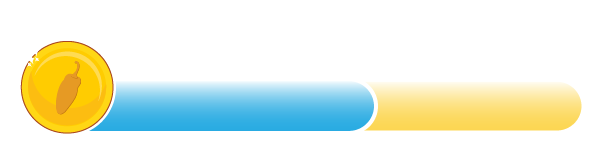
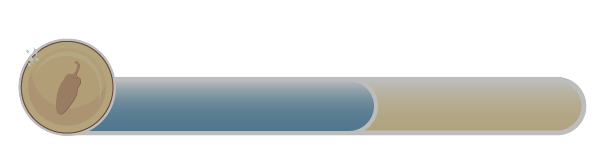
third finish

diff --git a/index.html b/index.html
@@ -27,41 +27,42 @@
 </head>
 
 <body onload="init()">
+	<diy id="rotatePhone">
+		<h3>Please rotate your Phone!</h1>
+	</diy>
 	<h1>Tombstone Tales</h1>
 
 
 	<div class="canvas-container">
+
 		<canvas id="canvas" width="720px" height="480px">
 		</canvas>
-	<div  class="buttonsContainer">
-		<div class="screenButtonsContainer">
-			<button id="view-fullscreen" onclick="fullscreen()"><img id="fullscreenbutton" class="mobileButtonImg"
-				src="img/mobileButtons/fullscreen.png"></button>
-			<button id="mute-fullscreen" onclick="muteAudio()"><img id="muteUnmuteButton" class="mobileButtonImg"
-				src="img/mobileButtons/muteIcon.png"></button>
+		<div class="buttonsContainer">
+			<div class="screenButtonsContainer">
+				<button id="view-fullscreen" onclick="fullscreen()"><img id="fullscreenbutton" class="mobileButtonImg"
+						src="img/mobileButtons/fullscreen.png"></button>
+				<button id="mute-fullscreen" onclick="muteAudio()"><img id="muteUnmuteButton" class="mobileButtonImg"
+						src="img/mobileButtons/muteIcon.png"></button>
+			</div>
+			<div class="actionButtons">
+				<div class="leftButtons scaleBigger">
+					<button class="mobileButtons" id="leftButton"><img class="mobileButtonImg"
+							src="img/mobileButtons/mobileLeft.png"></button>
+					<button class="mobileButtons" id="rightButton"><img class="mobileButtonImg"
+							src="img/mobileButtons/mobileRight.png"></button>
+				</div>
+				<div class="rightButtons">
+					<button class="mobileButtons" id="jumpButton"><img class="mobileButtonImg"
+							src="img/mobileButtons/mobileJump.png"></button>
+					<button class="mobileButtons" id="attackButton"><img class="mobileButtonImg"
+							src="img/mobileButtons/mobileAttack.png"></button>
+					<button class="mobileButtons" id="throwButton"><img class="mobileButtonImg"
+							src="img/mobileButtons/mobileBone.png"></button>
+					<button class="mobileButtons" id="dashButton"><img class="mobileButtonImg"
+							src="img/mobileButtons/mobileDash.png"></button>
+				</div>
+			</div>
 		</div>
-	<div class="actionButtons">
-		
-			<div class="leftButtons scaleBigger">
-				<button class="mobileButtons" id="leftButton"><img class="mobileButtonImg"
-						src="img/mobileButtons/mobileLeft.png"></button>
-				<button class="mobileButtons" id="rightButton"><img class="mobileButtonImg"
-						src="img/mobileButtons/mobileRight.png"></button>
-			</div>
-			<div class="rightButtons">
-				<button class="mobileButtons" id="jumpButton"><img class="mobileButtonImg"
-						src="img/mobileButtons/mobileJump.png"></button>
-				<button class="mobileButtons" id="attackButton"><img class="mobileButtonImg"
-						src="img/mobileButtons/mobileAttack.png"></button>
-				<button class="mobileButtons" id="throwButton"><img class="mobileButtonImg"
-						src="img/mobileButtons/mobileBone.png"></button>
-				<button class="mobileButtons" id="dashButton"><img class="mobileButtonImg"
-						src="img/mobileButtons/mobileDash.png"></button>
-			</div>
-		
-	</div>
-
-	</div>
 	</div>
 
 	<script src="js/game.js"></script>

diff --git a/models/zombie.class.js b/models/zombie.class.js
@@ -6,6 +6,7 @@ class Zombie extends MovableObject {
     offsetX = 15;
     initialAttackAnimationCount = 10;
     initialAttackCooldown = 20;
+    spawndelay;
     hurtTime = 35;
 
     imagesWalking = [
@@ -58,6 +59,7 @@ class Zombie extends MovableObject {
         this.loadImages(this.imagesDead);
         this.loadImages(this.imagesHurt);
         this.loadImages(this.imagesAttack);
+        this.spawndelay = Math.random()*10;
         this.x = position * 1000 + Math.random() * 1000;
         this.speed = 0.15 + Math.random() * 1;
         this.applyGravity();
@@ -65,35 +67,33 @@ class Zombie extends MovableObject {
     }
 
     animate() {
-        setInterval(() => {
-            if (!this.isHurt() && !this.isDead()) {
-                this.move();
-            }
+        setTimeout(() => {
+            setInterval(() => {
+                if (!this.isHurt() && !this.isDead()) {
+                    this.move();
+                }
+                this.checkAttackCooldown()
+            }, 1000 / 40)
 
-            this.checkAttackCooldown()
-        }, 1000 / 40)
-
-
-        setInterval(() => {
-            if (this.isDead()) {
-                setTimeout(() => {
-                    this.width = 190;
-                    this.height = 120;
-                }, 800);
-                this.playAnimationOnce(this.imagesDead);
-            }
-            else if (this.isAttacking()) {
-                playSound(this.zombieAttack_sound);
-                this.playAnimationOnce(this.imagesAttack);
-            }
-            else if (this.isHurt()) {
-                this.playAnimation(this.imagesHurt);
-            }
-            else {
-                this.playAnimation(this.imagesWalking);
-            }
-
-
-        }, 120)
+            setInterval(() => {
+                if (this.isDead()) {
+                    setTimeout(() => {
+                        this.width = 190;
+                        this.height = 120;
+                    }, 800);
+                    this.playAnimationOnce(this.imagesDead);
+                }
+                else if (this.isAttacking()) {
+                    playSound(this.zombieAttack_sound);
+                    this.playAnimationOnce(this.imagesAttack);
+                }
+                else if (this.isHurt()) {
+                    this.playAnimation(this.imagesHurt);
+                }
+                else {
+                    this.playAnimation(this.imagesWalking);
+                }
+            }, 120)
+        }, 100 * this.spawndelay);
     }
 }

diff --git a/models/world.class.js b/models/world.class.js
@@ -11,6 +11,7 @@ class World {
     endbossImage = new Image();
     coinBarImage = new Image();
     boneImage = new Image();
+    gravestoneImage = new Image();
     throwableObject = [];
     throwCooldown = 4;
     collectableArray = [];
@@ -30,6 +31,7 @@ class World {
         this.coinBarImage.src = 'img/8_coin/1.png';
         this.boneImage.src = 'img/6_bones/bottle_rotation/1.png';
         this.endbossImage.src = 'img/4_enemie_boss/6_idle/Wraith_01_Idle_000.png'
+        this.gravestoneImage.src = 'img/mobileButtons/gravestone2.png'
         this.draw();
         this.setWorld();
         this.run();
@@ -65,7 +67,6 @@ class World {
                     window.location = 'endscreen.html';
                 }, 2000);
             }
-            console.log(this.throwDeleteCounter)
         }, 200);
     }
 
@@ -231,7 +232,8 @@ class World {
         this.addToMap(this.statusBar);
         this.addToMap(this.coinBar);
         this.ctx.drawImage(this.coinBarImage, 7, 40, 70, 70);
-        this.ctx.drawImage(this.boneImage, 17, 95, 50, 50);
+        this.ctx.drawImage(this.boneImage, 17, 99, 50, 50);
+        this.ctx.drawImage(this.gravestoneImage, 17, 9, 45, 45);
         this.ctx.font = "bold 35px Showthat";
         this.ctx.strokeStyle = "darkred";
         this.ctx.strokeText("x " + this.character.weaponCount, 75, 135);

diff --git a/models/coin-bar.class.js b/models/coin-bar.class.js
@@ -2,12 +2,12 @@ class CoinBar extends DrawableObject {
 
     coins = 0;
     imagesCoins = [
-        'img/7_statusbars/1_statusbar/1_statusbar_coin/green/0.png',
-        'img/7_statusbars/1_statusbar/1_statusbar_coin/green/20.png',
-        'img/7_statusbars/1_statusbar/1_statusbar_coin/green/40.png',
-        'img/7_statusbars/1_statusbar/1_statusbar_coin/green/60.png',
-        'img/7_statusbars/1_statusbar/1_statusbar_coin/green/80.png',
-        'img/7_statusbars/1_statusbar/1_statusbar_coin/green/100.png'
+        'img/7_statusbars/1_statusbar/1_statusbar_coin/blue/0.png',
+        'img/7_statusbars/1_statusbar/1_statusbar_coin/blue/20.png',
+        'img/7_statusbars/1_statusbar/1_statusbar_coin/blue/40.png',
+        'img/7_statusbars/1_statusbar/1_statusbar_coin/blue/60.png',
+        'img/7_statusbars/1_statusbar/1_statusbar_coin/blue/80.png',
+        'img/7_statusbars/1_statusbar/1_statusbar_coin/blue/100.png'
     ];
 
 

diff --git a/models/movable-object.class.js b/models/movable-object.class.js
@@ -86,7 +86,7 @@ class MovableObject extends DrawableObject {
 
 
     meleeAttack(enemy) {
-        
+
         if (enemy instanceof Endboss) {
             this.hit(enemy, this.meleeDamage, 0, 4);
         }
@@ -112,7 +112,6 @@ class MovableObject extends DrawableObject {
     knockback(time, height) {
         let knockbackTime = time;
         this.speedY = height;
-        console.log(world.knockbackLeft);
         const knockbackInterval = setInterval(() => {
             if (knockbackTime > 0) {
                 if (!world.knockbackLeft) { this.x += 6; }

diff --git a/style.css b/style.css
@@ -179,6 +179,18 @@ canvas {
     align-items: center;
 }
 
+#rotatePhone {
+    position: absolute;
+    background-color: rgba(0, 0, 0, 0.616);
+    display: none;
+    justify-content: center;
+    align-items: center;
+    z-index: 10;
+    height: 100vh;
+    width: 100%;
+    ;
+}
+
 @media only screen and (max-width: 720px) {
 
     h1,
@@ -263,5 +275,10 @@ canvas {
         width: 30px;
         height: 30px;
     }
+}
 
+@media only screen and (max-width: 570px) {
+    #rotatePhone {
+        display: flex;
+    }
 }
